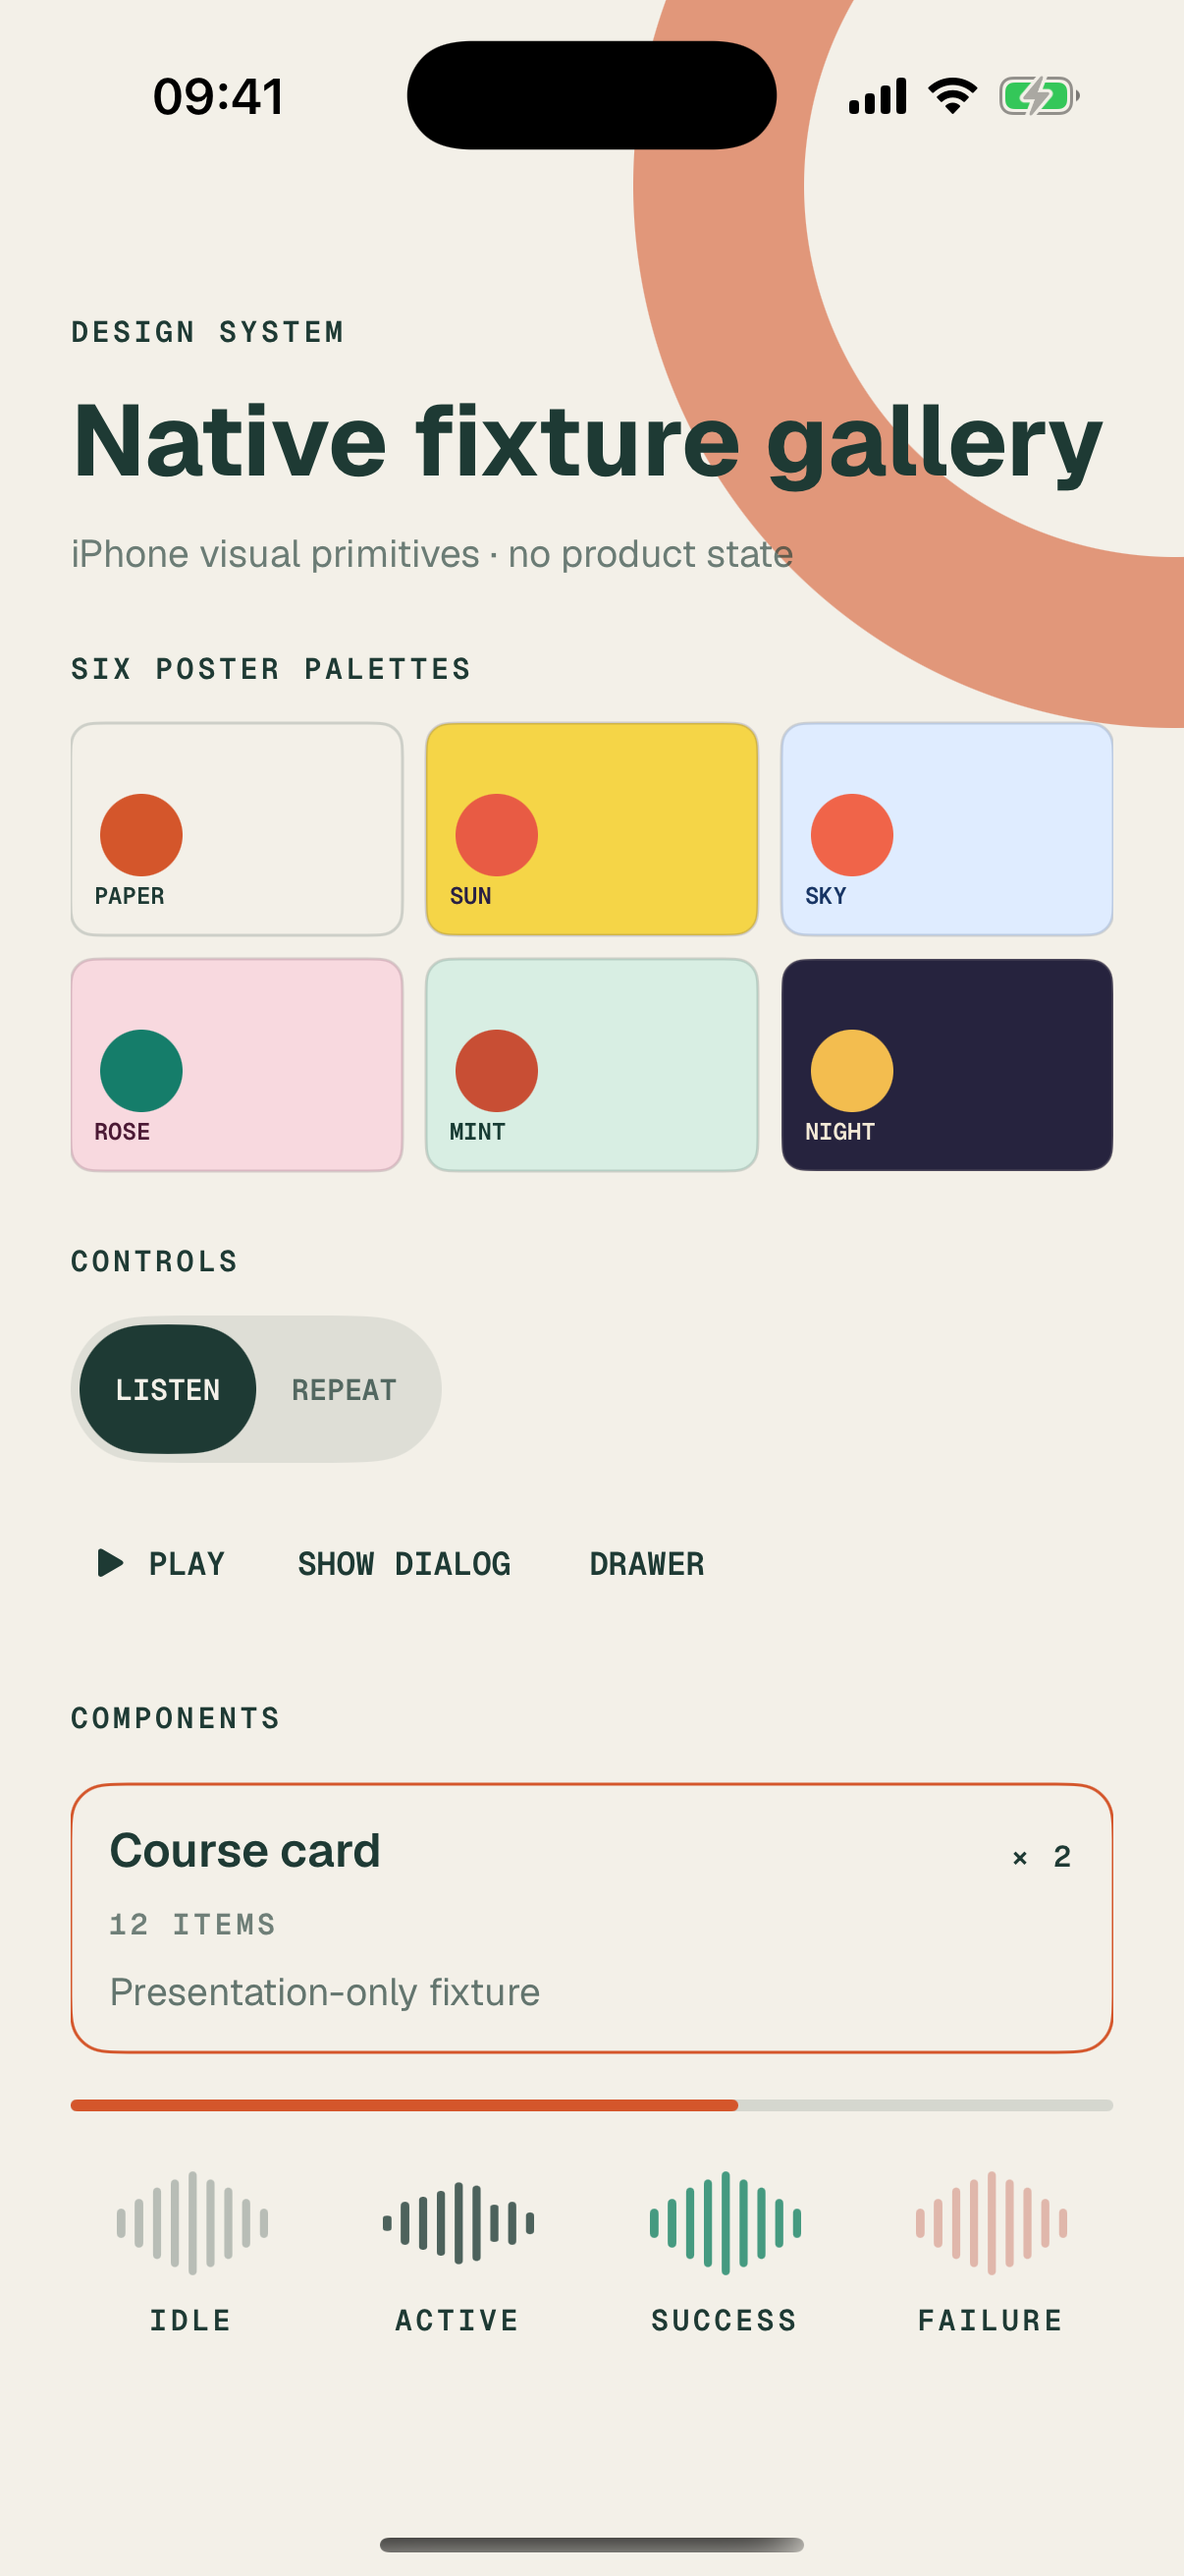
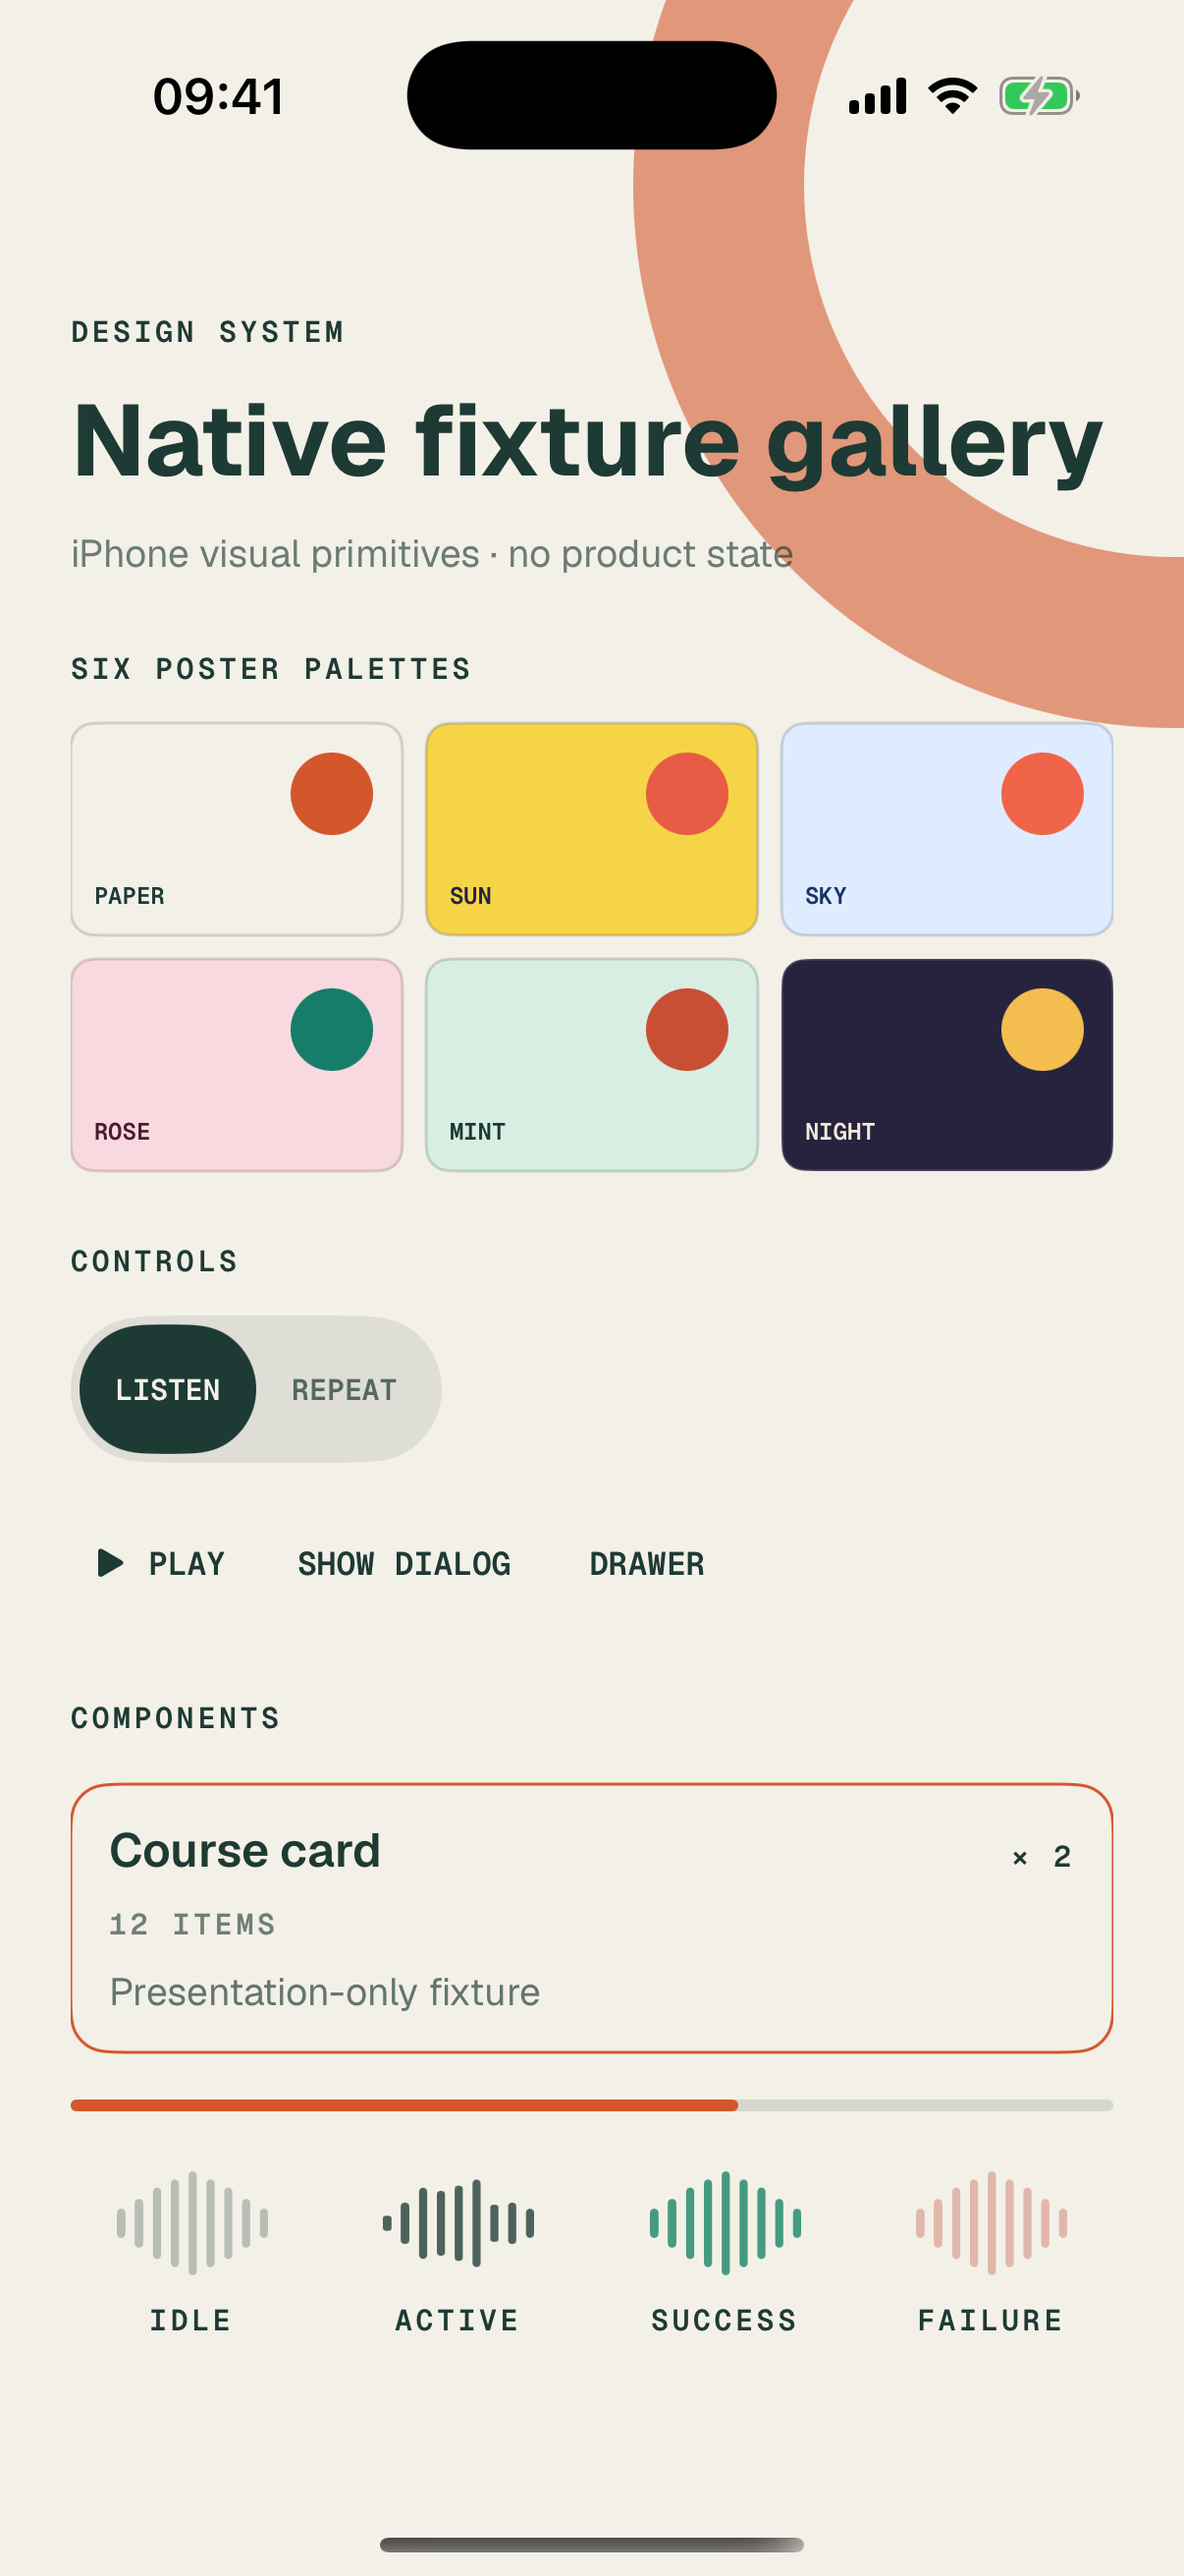
fix: enforce accessible design system roles

diff --git a/ios/Packages/WordLoopFeatures/Sources/WordLoopFeatures/WordLoopFeatures.swift b/ios/Packages/WordLoopFeatures/Sources/WordLoopFeatures/WordLoopFeatures.swift
@@ -94,10 +94,14 @@ public struct DesignSystemGalleryView: View {
                         Circle()
                             .fill(item.accent.color)
                             .frame(width: 28, height: 28)
-                            .offset(x: 10, y: -20)
+                            .frame(maxWidth: .infinity, maxHeight: .infinity, alignment: .topTrailing)
+                            .padding(10)
+                            .accessibilityHidden(true)
                         Text(item.id.uppercased())
                             .font(WordLoopTypography.label(size: 8))
                             .foregroundStyle(item.ink.color)
+                            .lineLimit(1)
+                            .minimumScaleFactor(0.75)
                             .padding(8)
                     }
                     .frame(height: 72)

diff --git a/ios/Packages/WordLoopDesignSystem/Sources/WordLoopDesignSystem/Components.swift b/ios/Packages/WordLoopDesignSystem/Sources/WordLoopDesignSystem/Components.swift
@@ -318,7 +318,11 @@ public struct ConfirmDialog: View {
                     .frame(minHeight: WordLoopSpacing.minimumHit)
                     .padding(.horizontal, 13)
                     .foregroundStyle(palette.background.color)
-                    .background(palette.accent.color, in: RoundedRectangle(cornerRadius: WordLoopRadius.control))
+                    .background(palette.accessibleAccentText.color, in: RoundedRectangle(cornerRadius: WordLoopRadius.control))
+                    .overlay {
+                        RoundedRectangle(cornerRadius: WordLoopRadius.control)
+                            .stroke(palette.accent.color, lineWidth: WordLoopBorder.hairline)
+                    }
                     .accessibilityLabel(model.confirmTitle)
             }
         }

diff --git a/ios/Packages/WordLoopDesignSystem/Tests/WordLoopDesignSystemTests/WordLoopDesignSystemTests.swift b/ios/Packages/WordLoopDesignSystem/Tests/WordLoopDesignSystemTests/WordLoopDesignSystemTests.swift
@@ -33,6 +33,7 @@ final class WordLoopDesignSystemTests: XCTestCase {
         for palette in PosterPalette.all {
             XCTAssertGreaterThanOrEqual(palette.ink.contrastRatio(with: palette.background), 4.5)
             XCTAssertGreaterThanOrEqual(palette.accessibleAccentText.contrastRatio(with: palette.background), 4.5)
+            XCTAssertGreaterThanOrEqual(palette.background.contrastRatio(with: palette.accessibleAccentText), 4.5)
         }
         XCTAssertEqual(PosterPalette.all[0].accessibleAccentText, PosterPalette.all[0].ink)
         XCTAssertEqual(PosterPalette.all[5].accessibleAccentText, PosterPalette.all[5].accent)

diff --git a/docs/ios-migration/p3/design-system/visual-verification.md b/docs/ios-migration/p3/design-system/visual-verification.md
@@ -14,9 +14,9 @@
 
 | 文件 | 状态 | SHA-256 |
 | --- | --- | --- |
[6 lines of base64/hex data omitted]
 
 ## 人工检查
 
@@ -24,7 +24,7 @@
 - 六套 `ink / background` 和小文字角色均由单元测试锁定为至少 4.5:1；装饰 accent 原值不变，accent 不足时仅小文字角色回退到 ink。
 - Geist Sans/Mono 已在模拟器渲染；没有空白字体或退回后导致的布局缺失。
 - 390 pt 宽度下 gallery 没有横向溢出；标题按宽度换行，palette 仍保持三列可辨识。
-- accessibility 3 下大标题、说明、palette label 和 ModeSwitch 放大并换行；页面通过自身 ScrollView 保持内容可达，不横向裁切。
+- accessibility 3 下大标题、说明、palette label 和 ModeSwitch 放大并换行；palette label 保持左下、装饰圆隔离到右上，不再相互覆盖；页面通过自身 ScrollView 保持内容可达，不横向裁切。
 - Reduce Motion fixture 通过 launch argument 让 Waveform 保持静态；同一组 launch arguments 已由 UI test 验证可启动。
 - UI tests 可操作 dialog 的 `CANCEL` 与 drawer 的关闭按钮，证明两个 modal visual container 暴露可用的 VoiceOver 控件。
 - 最小命中尺寸由 `WordLoopSpacing.minimumHit = 44` 和组件测试固定；纯装饰圆环从 accessibility tree 隐藏。

diff --git a/docs/tasks/2026-07-15-p3-1-design-system.md b/docs/tasks/2026-07-15-p3-1-design-system.md
@@ -1,6 +1,6 @@
 # P3.1 iPhone Design System 基础层
 
-状态：独立复核 FAIL，待修复后重新复核
+状态：首次独立复核 FAIL；对比度与辅助字号布局已修复，待重新复核
 
 上游 Plan：[`../plans/2026-07-15-wordloop-ios-migration-implementation-plan.md`](../plans/2026-07-15-wordloop-ios-migration-implementation-plan.md)
 
@@ -115,6 +115,7 @@ git status --short --ignored
 - iPhone 17 Pro、390 × 844 pt iPhone 17e、accessibility 3 + Reduce Motion 三组截图和人工检查见 [`../ios-migration/p3/design-system/visual-verification.md`](../ios-migration/p3/design-system/visual-verification.md)。
 - DesignSystem 11 tests、Features 2 tests、App integration 1 test、App UI 3 tests 均通过；`npm test` 为 39/39，lint 仍只有既有 Web 4 errors、0 warnings。
 - 未修改 Web UI、课程、音频、API、数据库或部署；未创建 iPad、macOS 或 Catalyst 产品 target。
+- 首次 reviewer 发现 ConfirmDialog 的 canonical accent 填充在五套浅色 palette 下不足 4.5:1，且 accessibility 3 的 palette 标签与装饰圆重叠。修复后主按钮使用经过对比度选择的角色色并保留 canonical accent 边框，六套真实前景/填充组合加入测试；装饰圆移到右上独立区域，标签固定在左下且允许受控缩放。
 
 ## 交接
 

diff --git a/docs/handoff/CHANGELOG.md b/docs/handoff/CHANGELOG.md
@@ -2,6 +2,13 @@
 
 此文件只追加影响后续接手的耐久事实。最新记录放在最上方，不改写旧记录。
 
+## 2026-07-15 · P3.1 contrast and accessibility layout fixed, re-review pending
+
+- ConfirmDialog 主按钮不再直接使用低对比 canonical accent 填充；改用每套 palette 已通过 4.5:1 的角色色作为填充，background 作为文字，同时用 canonical accent 细边框保留产品色彩语义。
+- DesignSystem tests 新增六套实际 `button text / selected fill` 对比组合，关闭首次 review 漏测。
+- gallery palette 装饰圆移到右上独立区域并从 accessibility tree 隐藏；标签固定左下、单行受控缩放，避免 accessibility 3 下相互覆盖。
+- 需重拍标准/最窄/辅助字号截图并重新独立复核；P3.1 PASS 前不进入 P3.2。
+
 ## 2026-07-15 · P3.1 review failed on critical-control contrast
 
 - 独立 reviewer 从删除课程生成物、统一/Package SwiftPM cache 与 DerivedData 的状态重跑验收；八个 Package tests、iPhone build、App integration 1 项、UI 3 项、Web 39/39 与既有 lint 基线均通过。
